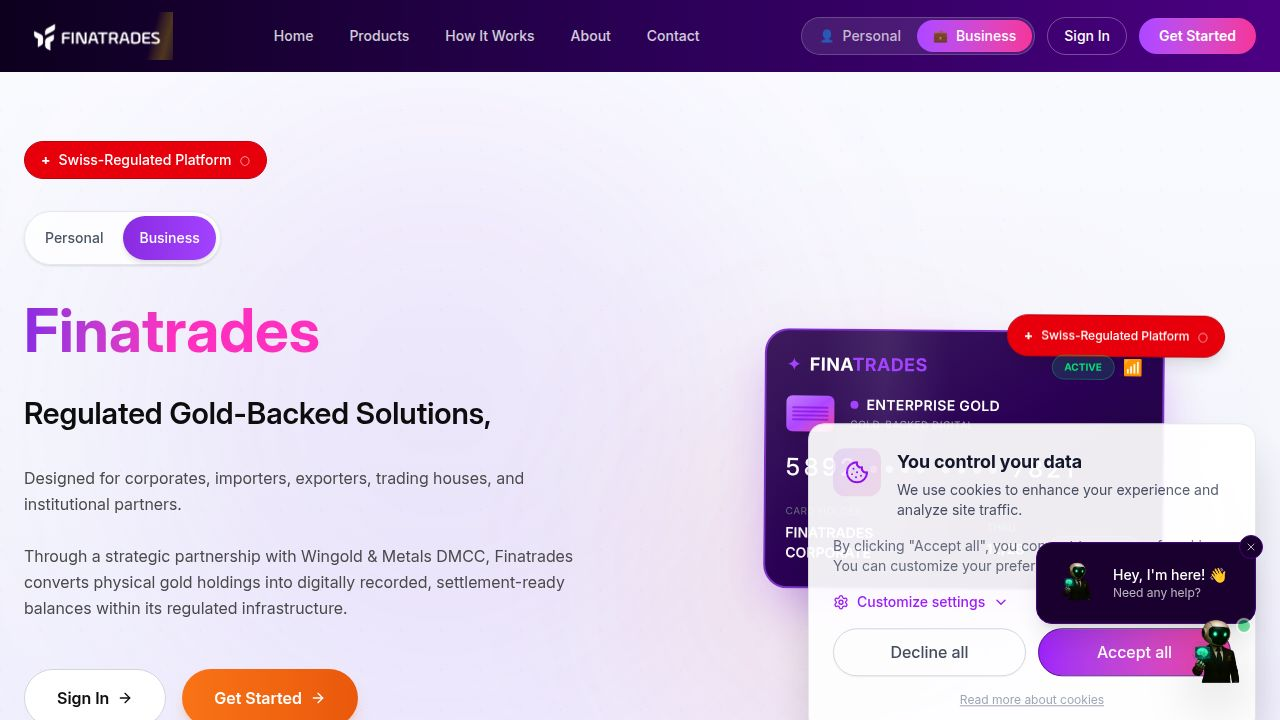
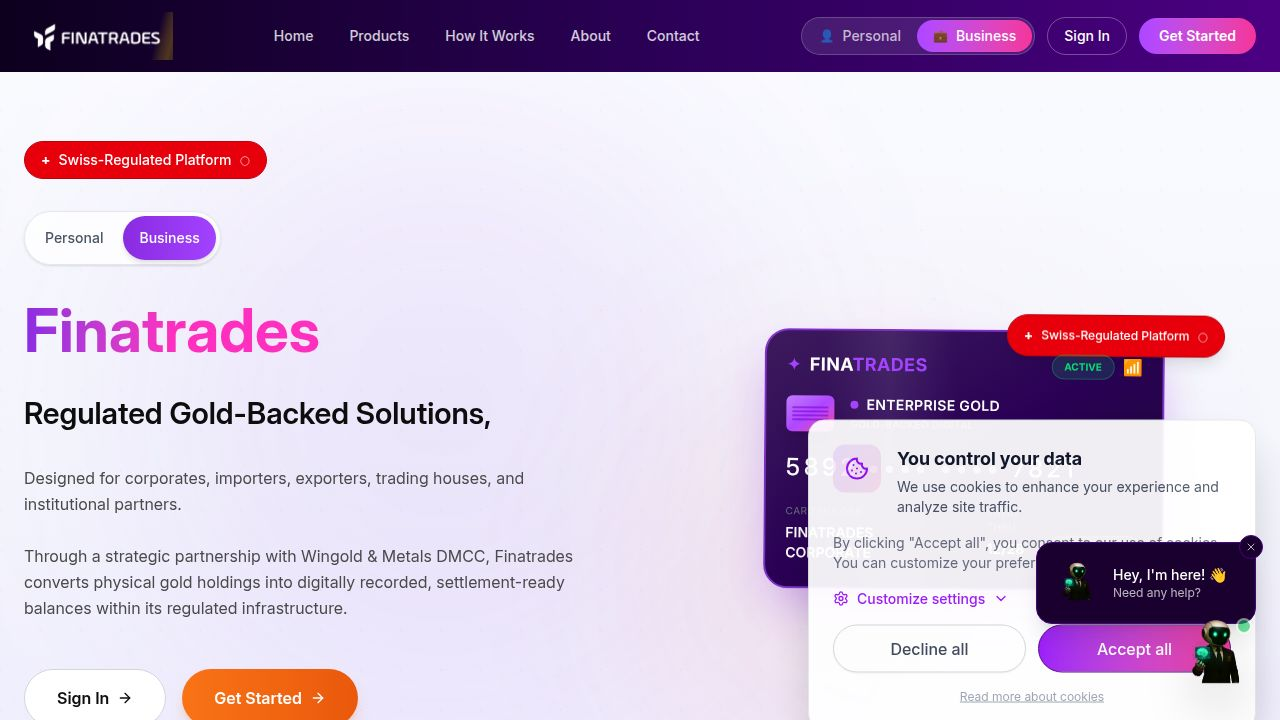
Improve accuracy and clarity of displayed applicant details
Fixes mapping for corporate KYC fields and enhances display of personal and business information.

Replit-Commit-Author: Agent
Replit-Commit-Session-Id: e7b19f46-ed74-4feb-8669-871b2cf6a8de
Replit-Commit-Checkpoint-Type: full_checkpoint
Replit-Commit-Event-Id: 0f10f4e6-669d-40c4-bab7-601a286d2bb9
Replit-Commit-Screenshot-Url: https://storage.googleapis.com/screenshot-production-us-central1/e7e55994-7ffa-4458-b8c4-25893d03b997/e7b19f46-ed74-4feb-8669-871b2cf6a8de/7P3Z2hk
Replit-Helium-Checkpoint-Created: true

diff --git a/client/src/pages/admin/KYCReview.tsx b/client/src/pages/admin/KYCReview.tsx
@@ -605,30 +605,40 @@ export default function KYCReview() {
             <h3>Applicant Details</h3>
             <div class="details-grid">
               <span class="label">Full Name:</span>
-              <span class="value">${app.fullName || 'Not provided'}</span>
+              <span class="value">${app.fullName || app.companyName || 'Not provided'}</span>
               <span class="label">Account Type:</span>
               <span class="value">${app.accountType || 'Personal'}</span>
               ${isFinatrades ? `
                 <span class="label">Email:</span>
-                <span class="value">${app.email || 'Not provided'}</span>
+                <span class="value">${app.emailAddress || app.email || 'Not provided'}</span>
                 <span class="label">Phone:</span>
-                <span class="value">${app.phone || 'Not provided'}</span>
-                <span class="label">Date of Birth:</span>
-                <span class="value">${app.dateOfBirth || 'Not provided'}</span>
+                <span class="value">${app.telephoneNumber || app.phone || 'Not provided'}</span>
+                ${app.accountType !== 'business' ? `
+                  <span class="label">Date of Birth:</span>
+                  <span class="value">${app.dateOfBirth || 'Not provided'}</span>
+                ` : ''}
               ` : ''}
               <span class="label">Country:</span>
-              <span class="value">${app.country || 'Not provided'}</span>
-              ${isFinatrades ? `
+              <span class="value">${app.countryOfIncorporation || app.country || 'Not provided'}</span>
+              ${isFinatrades && app.accountType !== 'business' ? `
                 <span class="label">City:</span>
                 <span class="value">${app.city || 'Not provided'}</span>
                 <span class="label">Address:</span>
-                <span class="value">${app.address || 'Not provided'}</span>
+                <span class="value">${app.headOfficeAddress || app.address || 'Not provided'}</span>
                 <span class="label">Postal Code:</span>
                 <span class="value">${app.postalCode || 'Not provided'}</span>
               ` : ''}
-              <span class="label">Nationality:</span>
-              <span class="value">${app.nationality || 'Not provided'}</span>
-              ${isFinatrades ? `
+              ${isFinatrades && app.accountType === 'business' ? `
+                <span class="label">Address:</span>
+                <span class="value">${app.headOfficeAddress || app.address || 'Not provided'}</span>
+                ${app.website ? `<span class="label">Website:</span><span class="value">${app.website}</span>` : ''}
+                ${app.natureOfBusiness ? `<span class="label">Nature of Business:</span><span class="value">${app.natureOfBusiness}</span>` : ''}
+              ` : ''}
+              ${app.accountType !== 'business' ? `
+                <span class="label">Nationality:</span>
+                <span class="value">${app.nationality || 'Not provided'}</span>
+              ` : ''}
+              ${isFinatrades && app.accountType !== 'business' ? `
                 <span class="label">Occupation:</span>
                 <span class="value">${app.occupation || 'Not provided'}</span>
                 <span class="label">Source of Funds:</span>
@@ -647,6 +657,11 @@ export default function KYCReview() {
                 <span class="value">${app.companyName || 'Not provided'}</span>
                 <span class="label">Registration Number:</span>
                 <span class="value">${app.registrationNumber || 'Not provided'}</span>
+                ${app.companyType ? `<span class="label">Company Type:</span><span class="value">${app.companyType}</span>` : ''}
+                ${app.incorporationDate ? `<span class="label">Incorporation Date:</span><span class="value">${app.incorporationDate}</span>` : ''}
+                ${app.tradingContactName ? `<span class="label">Trading Contact:</span><span class="value">${app.tradingContactName} (${app.tradingContactEmail})</span>` : ''}
+                ${app.financeContactName ? `<span class="label">Finance Contact:</span><span class="value">${app.financeContactName} (${app.financeContactEmail})</span>` : ''}
+                ${app.bankName ? `<span class="label">Bank:</span><span class="value">${app.bankName}${app.bankCity ? ', ' + app.bankCity : ''}${app.bankCountry ? ', ' + app.bankCountry : ''}</span>` : ''}
                 <span class="label">Tax ID:</span>
                 <span class="value">${app.taxId || 'Not provided'}</span>
               </div>
@@ -1234,89 +1249,169 @@ export default function KYCReview() {
               <div className="space-y-4">
                 <h4 className="font-medium border-b pb-2">Applicant Details</h4>
                 <div className="grid grid-cols-2 gap-2 text-sm">
-                  <span className="text-gray-500">Full Name:</span>
-                  <span className="font-medium">{selectedApplication?.fullName || 'Not provided'}</span>
-                  <span className="text-gray-500">Account Type:</span>
-                  <span className="font-medium capitalize">{selectedApplication?.accountType}</span>
-                  
-                  {/* Show additional fields for Finatrades KYC */}
-                  {isFinatradesKyc(selectedApplication) && (
-                    <>
-                      <span className="text-gray-500">Email:</span>
-                      <span className="font-medium">{selectedApplication?.email || 'Not provided'}</span>
-                      <span className="text-gray-500">Phone:</span>
-                      <span className="font-medium">{selectedApplication?.phone || 'Not provided'}</span>
-                      <span className="text-gray-500">Date of Birth:</span>
-                      <span className="font-medium">{selectedApplication?.dateOfBirth || 'Not provided'}</span>
-                    </>
-                  )}
-                  
-                  <span className="text-gray-500">Country:</span>
-                  <span className="font-medium">{selectedApplication?.country || 'Not provided'}</span>
-                  
-                  {isFinatradesKyc(selectedApplication) && (
-                    <>
-                      <span className="text-gray-500">City:</span>
-                      <span className="font-medium">{selectedApplication?.city || 'Not provided'}</span>
-                      <span className="text-gray-500">Address:</span>
-                      <span className="font-medium">{selectedApplication?.address || 'Not provided'}</span>
-                      <span className="text-gray-500">Postal Code:</span>
-                      <span className="font-medium">{selectedApplication?.postalCode || 'Not provided'}</span>
-                    </>
-                  )}
-                  
-                  <span className="text-gray-500">Nationality:</span>
-                  <span className="font-medium">{selectedApplication?.nationality || 'Not provided'}</span>
-                  
-                  {isFinatradesKyc(selectedApplication) && (
-                    <>
-                      <span className="text-gray-500">Occupation:</span>
-                      <span className="font-medium">{selectedApplication?.occupation || 'Not provided'}</span>
-                      <span className="text-gray-500">Source of Funds:</span>
-                      <span className="font-medium">{selectedApplication?.sourceOfFunds || 'Not provided'}</span>
-                      {selectedApplication?.passportExpiryDate && (
-                        <>
-                          <span className="text-gray-500">Passport Expiry:</span>
-                          <span className="font-medium">{selectedApplication.passportExpiryDate}</span>
-                        </>
-                      )}
-                    </>
-                  )}
-                  
-                  {selectedApplication?.kycType === 'finatrades_corporate' && (
-                    <>
-                      {selectedApplication?.tradeLicenseExpiryDate && (
-                        <>
-                          <span className="text-gray-500">Trade License Expiry:</span>
-                          <span className="font-medium">{selectedApplication.tradeLicenseExpiryDate}</span>
-                        </>
-                      )}
-                      {selectedApplication?.directorPassportExpiryDate && (
-                        <>
-                          <span className="text-gray-500">Director Passport Expiry:</span>
-                          <span className="font-medium">{selectedApplication.directorPassportExpiryDate}</span>
-                        </>
-                      )}
-                    </>
-                  )}
-                  
-                  <span className="text-gray-500">Submitted:</span>
-                  <span className="font-medium">{selectedApplication?.createdAt ? new Date(selectedApplication.createdAt).toLocaleString() : '-'}</span>
+                  {(() => {
+                    const appData = fullApplicationData || selectedApplication;
+                    const isCorporate = appData?.kycType === 'finatrades_corporate' || appData?.accountType === 'business';
+                    const email = isCorporate ? (appData?.emailAddress || appData?.email) : appData?.email;
+                    const phone = isCorporate ? (appData?.telephoneNumber || appData?.phone) : appData?.phone;
+                    const country = isCorporate ? (appData?.countryOfIncorporation || appData?.country) : appData?.country;
+                    const address = isCorporate ? (appData?.headOfficeAddress || appData?.address) : appData?.address;
+                    const city = isCorporate ? (appData?.bankCity || appData?.city) : appData?.city;
+                    
+                    return (
+                      <>
+                        <span className="text-gray-500">Full Name:</span>
+                        <span className="font-medium">{appData?.fullName || appData?.companyName || 'Not provided'}</span>
+                        <span className="text-gray-500">Account Type:</span>
+                        <span className="font-medium capitalize">{appData?.accountType}</span>
+                        
+                        {isFinatradesKyc(appData) && (
+                          <>
+                            <span className="text-gray-500">Email:</span>
+                            <span className="font-medium">{email || 'Not provided'}</span>
+                            <span className="text-gray-500">Phone:</span>
+                            <span className="font-medium">{phone || 'Not provided'}</span>
+                            {!isCorporate && (
+                              <>
+                                <span className="text-gray-500">Date of Birth:</span>
+                                <span className="font-medium">{appData?.dateOfBirth || 'Not provided'}</span>
+                              </>
+                            )}
+                          </>
+                        )}
+                        
+                        <span className="text-gray-500">Country:</span>
+                        <span className="font-medium">{country || 'Not provided'}</span>
+                        
+                        {isFinatradesKyc(appData) && (
+                          <>
+                            {!isCorporate && (
+                              <>
+                                <span className="text-gray-500">City:</span>
+                                <span className="font-medium">{city || 'Not provided'}</span>
+                              </>
+                            )}
+                            <span className="text-gray-500">Address:</span>
+                            <span className="font-medium">{address || 'Not provided'}</span>
+                            {!isCorporate && (
+                              <>
+                                <span className="text-gray-500">Postal Code:</span>
+                                <span className="font-medium">{appData?.postalCode || 'Not provided'}</span>
+                              </>
+                            )}
+                          </>
+                        )}
+                        
+                        {!isCorporate && (
+                          <>
+                            <span className="text-gray-500">Nationality:</span>
+                            <span className="font-medium">{appData?.nationality || 'Not provided'}</span>
+                          </>
+                        )}
+                        
+                        {isFinatradesKyc(appData) && !isCorporate && (
+                          <>
+                            <span className="text-gray-500">Occupation:</span>
+                            <span className="font-medium">{appData?.occupation || 'Not provided'}</span>
+                            <span className="text-gray-500">Source of Funds:</span>
+                            <span className="font-medium">{appData?.sourceOfFunds || 'Not provided'}</span>
+                            {appData?.passportExpiryDate && (
+                              <>
+                                <span className="text-gray-500">Passport Expiry:</span>
+                                <span className="font-medium">{appData.passportExpiryDate}</span>
+                              </>
+                            )}
+                          </>
+                        )}
+                        
+                        {isCorporate && (
+                          <>
+                            {appData?.website && (
+                              <>
+                                <span className="text-gray-500">Website:</span>
+                                <span className="font-medium">{appData.website}</span>
+                              </>
+                            )}
+                            {appData?.natureOfBusiness && (
+                              <>
+                                <span className="text-gray-500">Nature of Business:</span>
+                                <span className="font-medium">{appData.natureOfBusiness}</span>
+                              </>
+                            )}
+                            {appData?.tradeLicenseExpiryDate && (
+                              <>
+                                <span className="text-gray-500">Trade License Expiry:</span>
+                                <span className="font-medium">{appData.tradeLicenseExpiryDate}</span>
+                              </>
+                            )}
+                            {appData?.directorPassportExpiryDate && (
+                              <>
+                                <span className="text-gray-500">Director Passport Expiry:</span>
+                                <span className="font-medium">{appData.directorPassportExpiryDate}</span>
+                              </>
+                            )}
+                          </>
+                        )}
+                        
+                        <span className="text-gray-500">Submitted:</span>
+                        <span className="font-medium">{appData?.createdAt ? new Date(appData.createdAt).toLocaleString() : '-'}</span>
+                      </>
+                    );
+                  })()}
                 </div>
                 
-                {selectedApplication?.accountType === 'business' && (
-                  <div className="mt-4 pt-4 border-t">
-                    <h4 className="font-medium mb-2">Business Details</h4>
-                    <div className="grid grid-cols-2 gap-2 text-sm">
-                      <span className="text-gray-500">Company Name:</span>
-                      <span className="font-medium">{selectedApplication?.companyName || 'Not provided'}</span>
-                      <span className="text-gray-500">Registration Number:</span>
-                      <span className="font-medium">{selectedApplication?.registrationNumber || 'Not provided'}</span>
-                      <span className="text-gray-500">Tax ID:</span>
-                      <span className="font-medium">{selectedApplication?.taxId || 'Not provided'}</span>
+                {(selectedApplication?.accountType === 'business' || fullApplicationData?.kycType === 'finatrades_corporate') && (() => {
+                  const biz = fullApplicationData || selectedApplication;
+                  return (
+                    <div className="mt-4 pt-4 border-t">
+                      <h4 className="font-medium mb-2">Business Details</h4>
+                      <div className="grid grid-cols-2 gap-2 text-sm">
+                        <span className="text-gray-500">Company Name:</span>
+                        <span className="font-medium">{biz?.companyName || 'Not provided'}</span>
+                        <span className="text-gray-500">Registration Number:</span>
+                        <span className="font-medium">{biz?.registrationNumber || 'Not provided'}</span>
+                        {biz?.companyType && (
+                          <>
+                            <span className="text-gray-500">Company Type:</span>
+                            <span className="font-medium">{biz.companyType}</span>
+                          </>
+                        )}
+                        {biz?.incorporationDate && (
+                          <>
+                            <span className="text-gray-500">Incorporation Date:</span>
+                            <span className="font-medium">{biz.incorporationDate}</span>
+                          </>
+                        )}
+                        {biz?.numberOfEmployees && (
+                          <>
+                            <span className="text-gray-500">Number of Employees:</span>
+                            <span className="font-medium">{biz.numberOfEmployees}</span>
+                          </>
+                        )}
+                        {biz?.tradingContactName && (
+                          <>
+                            <span className="text-gray-500">Trading Contact:</span>
+                            <span className="font-medium">{biz.tradingContactName} ({biz.tradingContactEmail})</span>
+                          </>
+                        )}
+                        {biz?.financeContactName && (
+                          <>
+                            <span className="text-gray-500">Finance Contact:</span>
+                            <span className="font-medium">{biz.financeContactName} ({biz.financeContactEmail})</span>
+                          </>
+                        )}
+                        {biz?.bankName && (
+                          <>
+                            <span className="text-gray-500">Bank:</span>
+                            <span className="font-medium">{biz.bankName}{biz.bankCity ? `, ${biz.bankCity}` : ''}{biz.bankCountry ? `, ${biz.bankCountry}` : ''}</span>
+                          </>
+                        )}
+                        <span className="text-gray-500">Tax ID:</span>
+                        <span className="font-medium">{biz?.taxId || 'Not provided'}</span>
+                      </div>
                     </div>
-                  </div>
-                )}
+                  );
+                })()}
               </div>
 
               <div className="space-y-4">